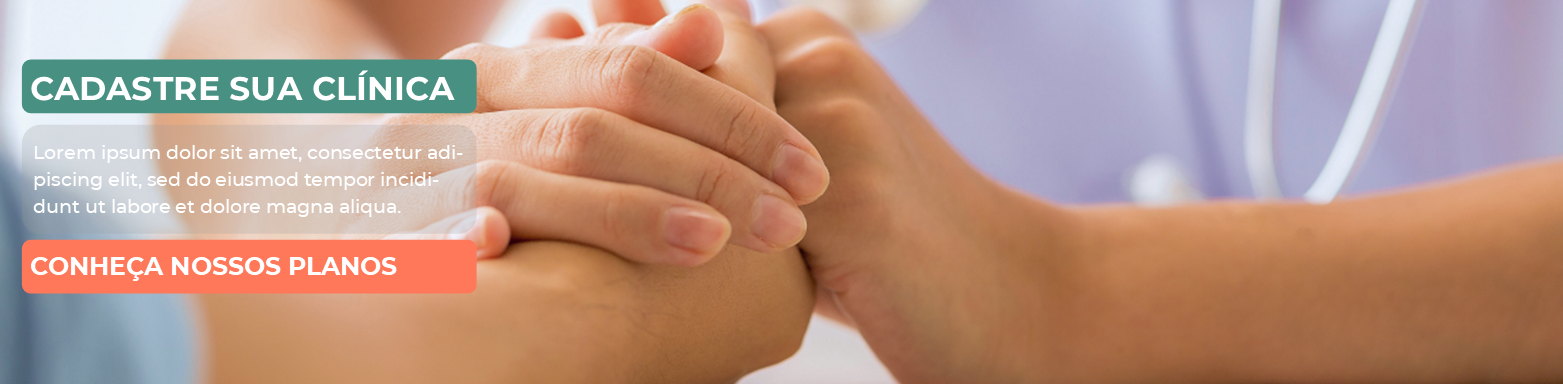
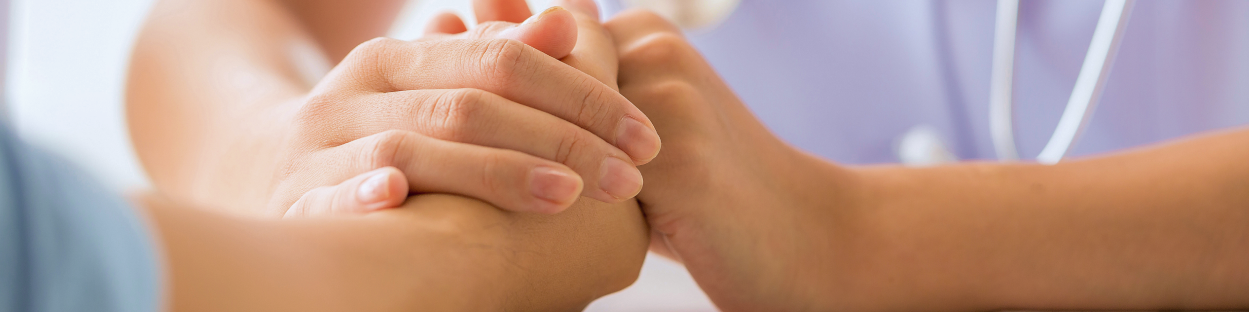
correction of bottom-card and styling of some items

diff --git a/index.html b/index.html
@@ -5,6 +5,7 @@
     <meta charset="utf-8">
     <meta name="viewport" content="width=device-width, initial-scale=1">
 
+
     <!-- CSS -->
     <link rel="stylesheet" href="assets/css/main.css">
     <!-- Fonts -->
@@ -26,15 +27,15 @@
             <img src="assets/img/logo.svg" height="36">
           </a>
 
-          <button class="navbar-toggler" type="button" data-bs-toggle="collapse" data-bs-target="#navbarNav"
-            aria-controls="navbarNav" aria-expanded="false" aria-label="Toggle navigation">
-            Menu
+          <button class="navbar-toggler nav-collapse-button" type="button" data-bs-toggle="collapse"
+            data-bs-target="#navbarNav" aria-controls="navbarNav" aria-expanded="false" aria-label="Toggle navigation">
+            <p>Menu</p>
           </button>
 
           <div class="collapse navbar-collapse justify-content-end" id="navbarNav">
             <ul class="navbar-nav">
               <li class="nav-link">
-                <a class="btn-link active " aria-current="page" href="#">AJUDA</a>
+                <a class="btn-link active btn-help" aria-current="page" href="#">AJUDA</a>
               </li>
               <li class="nav-link">
                 <button class="btn-sm btn-secondary" type="button">Sign in</button>
@@ -142,17 +143,24 @@
       <!-- //Cards Centrais -->
 
       <!-- Pré footer -->
-      <div class="container-fluid container-p-footer">
-        <div class="container p-5">
-          <div id="carouselExampleSlidesOnly" class="carousel slide" data-bs-ride="carousel">
-            <div class="carousel-inner">
-              <div class="carousel-item active">
-                <a href="#"><img src="assets/img/Card-bottom.png" class="d-block w-100 img-p-footer" alt="..."></a>
-              </div>
+      <div class="container-fluid container-p-footer pt-5 pb-5">
+        <div class="container pt-5 pb-5 container-card-botton">
+          <img class="img-fluid img-card-botton" src="assets/img/Card-bottom.png">
+          <div class="row">
+            <div class="col text-1 pt-2 pb-5">
+              <h3>cadastre sua clínica</h3>
+            </div>
+            <div class="col text-2 pt-2 pb-2">
+              <p>Lorem ipsum dolor sit amet, consectetur adipiscing elit, sed do eiusmod tempor incididunt ut labore et
+                dolore magna aliqua.</p>
+            </div>
+            <div class="col">
+              <button class="btn-card-botton pt-2 pb-2" type="button">
+                <p>Conheça nossos planos</p>
+              </button>
             </div>
           </div>
         </div>
-
       </div>
       <!-- //Pré footer -->
 
@@ -161,50 +169,52 @@
     <!-- //Meio -->
 
     <!-- Footer -->
-    <footer class="bg-white text-white pt-5 pb-4">
+    <footer class="bg-white text-white pt-4 pb-4">
 
       <div class="container text-center text-md-left">
-    
+
         <div class="row text-center text-md-left">
-          
+
           <div class="col-md-3 col-lg-3 col-xl-3 mx-auto mt-3">
-          <h5 class="text-uppercase mb-4 font-weight-bold text-warning"><img src="assets/img/logo.svg" class="img-fluid" /></h5>
-          <p><a class="text-secondary" style="text-decoration: none">Marque consultas com segurança, de onde estiver e quando quiser com os melhores profissionais de saúde do mercado.</a></p>
+            <h5 class="text-uppercase mb-4 font-weight-bold text-warning"><img src="assets/img/logo.svg"
+                class="img-fluid" /></h5>
+            <p><a class="text-secondary">Marque consultas com segurança, de onde estiver e
+                quando quiser com os melhores profissionais de saúde do mercado.</a></p>
           </div>
           <div class="col-md-2 col-lg-2 col-xl-2 mx-auto mt-3">
-    
-                <h5 class="clinica" class="text-capitalize mb-4 font-weight-bold">Clínicas</h5>
-          <p>
-            <a href="#" class="text-secondary" style="text-decoration: none;">Login</a>
-          </p>
-          <p>
-            <a href="#" class="text-secondary" style="text-decoration: none;">Registro</a>
-          </p>
-          <p>
-            <a href="#" class="text-secondary" style="text-decoration: none;">Planos</a>
-          </p>
-          <p>
-            <a href="#" class="text-secondary" style="text-decoration: none;">FAQ</a>
-          </p>
-    
+
+            <h5 class="clinica" class="text-capitalize mb-4 font-weight-bold">Clínicas</h5>
+            <p>
+              <a href="#" class="text-secondary">Login</a>
+            </p>
+            <p>
+              <a href="#" class="text-secondary">Registro</a>
+            </p>
+            <p>
+              <a href="#" class="text-secondary">Planos</a>
+            </p>
+            <p>
+              <a href="#" class="text-secondary" style=>FAQ</a>
+            </p>
+
           </div>
-    
+
           <div class="col-md-3 col-lg-2 col-xl-2 mx-auto mt-3">
             <h5 class="pacientes" class="text-capitalize mb-4 font-weight-bold text-info">Pacientes</h5>
-          <p>
-            <a href="#" class="text-secondary" style="text-decoration: none;">Login</a>
-          </p>
-          <p>
-            <a href="#" class="text-secondary" style="text-decoration: none;">Registro</a>
-          </p>
-          <p>
-            <a href="#" class="text-secondary" style="text-decoration: none;">Marcar consulta</a>
-          </p>
-          <p>
-            <a href="#" class="text-secondary" style="text-decoration: none;">FAQ</a>
-          </p>
+            <p>
+              <a href="#" class="text-secondary">Login</a>
+            </p>
+            <p>
+              <a href="#" class="text-secondary">Registro</a>
+            </p>
+            <p>
+              <a href="#" class="text-secondary">Marcar consulta</a>
+            </p>
+            <p>
+              <a href="#" class="text-secondary">FAQ</a>
+            </p>
           </div>
-    
+
           <div class="col-md-4 col-lg-3 col-xl-3 mx-auto mt-3">
             <h5 class="contatos" class="text-capitalize mb-4 font-weight-bold text-info">Contatos</h5>
             <p>
@@ -216,36 +226,39 @@
             <p>
               <i class="fas fa-phone mr-3 text-secondary"></i><a class="text-secondary">E-mail</a>
             </p>
-            
+
           </div>
-          
+
         </div>
-        <div class="border-linha" ></div>
+        <div class="border-linha"></div>
         <hr class="mb-4">
-    
+
         <div class="row align-items-top">
-    
-          <div class="col-md-5 col-lg-8 text-secondary">
-            <p  style="font-size: 12px">©2021 appoint Todos os direitos reservados.
-            <a href="#" style="text-decoration: none;">
-            <strong class="text-info"></strong></a></p>
-            
+
+          <div class="col-md-5 col-lg-8 text-secondary copyright-footer">
+            <p>©2021 appoint Todos os direitos reservados.
+              <a href="#">
+                <strong class="text-info"></strong></a>
+            </p>
+
           </div>
-    
+
           <div class="col-md-5 col-lg-4">
             <div class="text-center text-md-right">
-    
+
               <ul class="list-unstyled list-inline">
                 <li class="list-inline-item">
-                  <p style="font-size: 12px"><a href="#" class="text-secondary" style="text-decoration: none;">Termos e condições</a></p>
+                  <p style="font-size: 12px"><a href="#" class="text-secondary btn-footer">Termos e
+                      condições</a></p>
                 </li>
                 <li class="list-inline-item">
-                  <p style="font-size: 12px"><a href="#" class="text-secondary" style="text-decoration: none;">Política de privacidade</a></p>
+                  <p><a href="#" class="text-secondary btn-footer">Política
+                      de privacidade</a></p>
                 </li>
-                </ul>
-              </div>
-              </div>
-            </footer>
+              </ul>
+            </div>
+          </div>
+    </footer>
 
     <!-- //Footer -->
     <script src="https://cdn.jsdelivr.net/npm/@popperjs/core@2.10.2/dist/umd/popper.min.js"

diff --git a/assets/css/custom.css b/assets/css/custom.css
@@ -26,6 +26,17 @@ a:hover, .btn-link:hover {
     line-height: 40px;
 }
 
+.nav-collapse-button{
+    background-color: var(--primary);
+}
+
+.nav-collapse-button>p{
+    font-weight: bold;
+    color: white;
+    margin: 0px;
+    letter-spacing: 0.04em;
+}
+
 /* Botões superiores */
 
 .btn-secondary {
@@ -132,40 +143,97 @@ main #fields-search-container {
 /* Pré Footer */
 
 .container-p-footer{
+    background-color: var(--secondary)
+}
+
+.container-card-botton{
+    position: relative; 
     background-color: var(--secondary);
 }
 
-.img-p-footer{
-    
-    border-radius:8px;
+.img-card-botton{
+    width: 100%;
+    height: auto;
+    border-radius: 8px;
 }
 
-.btn-botton{
+.btn-card-botton{
+    position: absolute;
+    top: 73%;
+    left: 21%;
+    transform: translate(-50%, -50%);
+    -ms-transform: translate(-50%, -50%);
     background-color: var(--tertiary);
-    border: transparent;
-    border-radius: 8px;
-    text-transform: uppercase;
     color: white;
-}
-
-.text-1{
-
-    background-color: var(--primary);
-    border-radius: 8px;
+    font-size: 16px;
+    font-weight: 700;
+    letter-spacing: 0.04em;
     text-transform: uppercase;
+    width: 30%;
+    height: 10%;
+    border: none;
+    border-radius: 8px;  
+}
+.btn-card-botton>p{
+    margin: 0px;
+    text-align: left;
+    padding-left: 4%;
+}
+.text-1{
+    position: absolute;
+    top: 27%;
+    left: 21%;
+    transform: translate(-50%, -50%);
+    -ms-transform: translate(-50%, -50%);
+    background-color: var(--primary);
+    color: white;
+    font-size: 16px;
+    font-weight: 700;
+    letter-spacing: 0.04em;
+    text-transform: uppercase;
+    width: 30%;
+    height: 10%;
+    border: none;
+    border-radius: 8px; 
+}
+.text-1>h3{
+    padding-top: 1%;
+    font-weight: bold;
 }
 
 .text-2{
-    background-color: rgba(153, 153, 153, 0.25);
-    border-radius: 8px;
-    font-style: normal;
-    font-weight: 500;
+    position: absolute;
+    top: 50%;
+    left: 21%;
+    transform: translate(-50%, -50%);
+    -ms-transform: translate(-50%, -50%);
+    background-color: rgba(153, 153, 153, 0.25);;
+    color: white;
     font-size: 16px;
-    line-height: 20px;
+    font-weight: 500;
+    letter-spacing: 0.04em;
+    text-transform: uppercase;
+    width: 30%;
+    height: auto;
+    border: none;
+    border-radius: 8px; 
 }
-
+.text-2>p{
+    padding-top: 5%;
+}
 /* Footer */
 
+.text-secondary{
+    text-decoration: none;
+}
+
+.btn-footer,.copyright-footer{
+    font-size: 12px;
+}
+
+.copyright-footer{
+    padding-top: 0.2%;
+}
 footer h5 {
     color: var(--primary);
 }

diff --git a/assets/css/responsive.css b/assets/css/responsive.css
@@ -1,12 +1,24 @@
 
   /* MAX MEDIUM Header*/
-  @media (max-width: 991.98px) {
+@media (max-width: 991.98px) {
 
-    #header .navbar-collapse {
-      width: 100%;
-    }
-    #contato .email img {
-      width: 90px;
-      top: -40px;
-    }
+  #header .navbar-collapse {
+    width: 100%;
   }
+  #contato .email img {
+    width: 90px;
+    top: -40px;
+  }
+  .btn-primary, .btn-secondary{
+    width: 100%;
+  }
+  .btn-help{
+    padding-left: 45%;
+  }
+ 
+}
+@media(min-width: 768px){
+  .btn-help{
+    padding-left: 0;
+  }
+}
